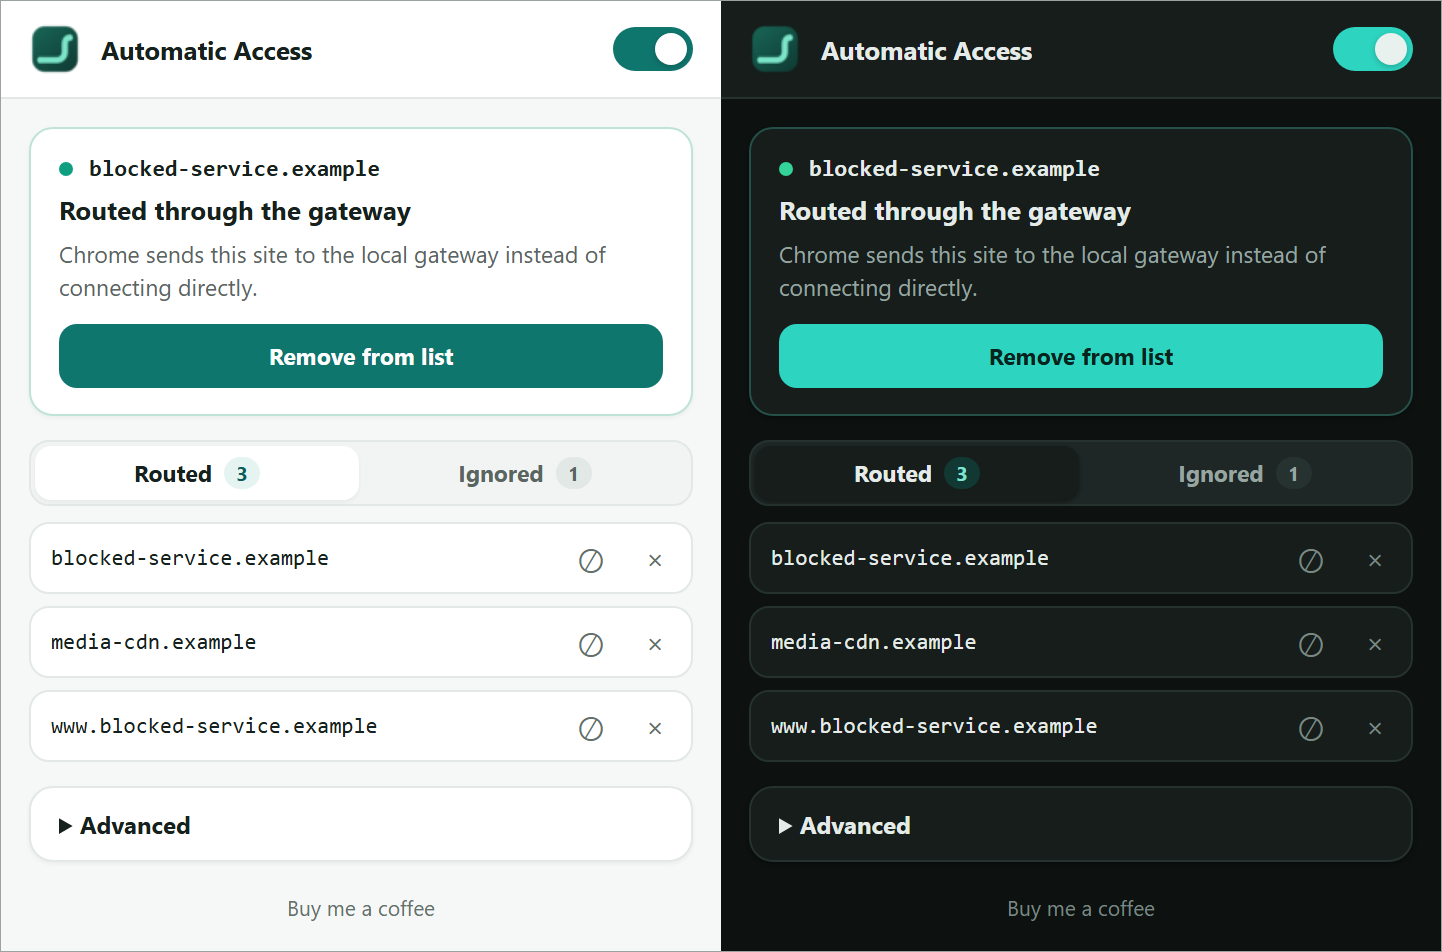
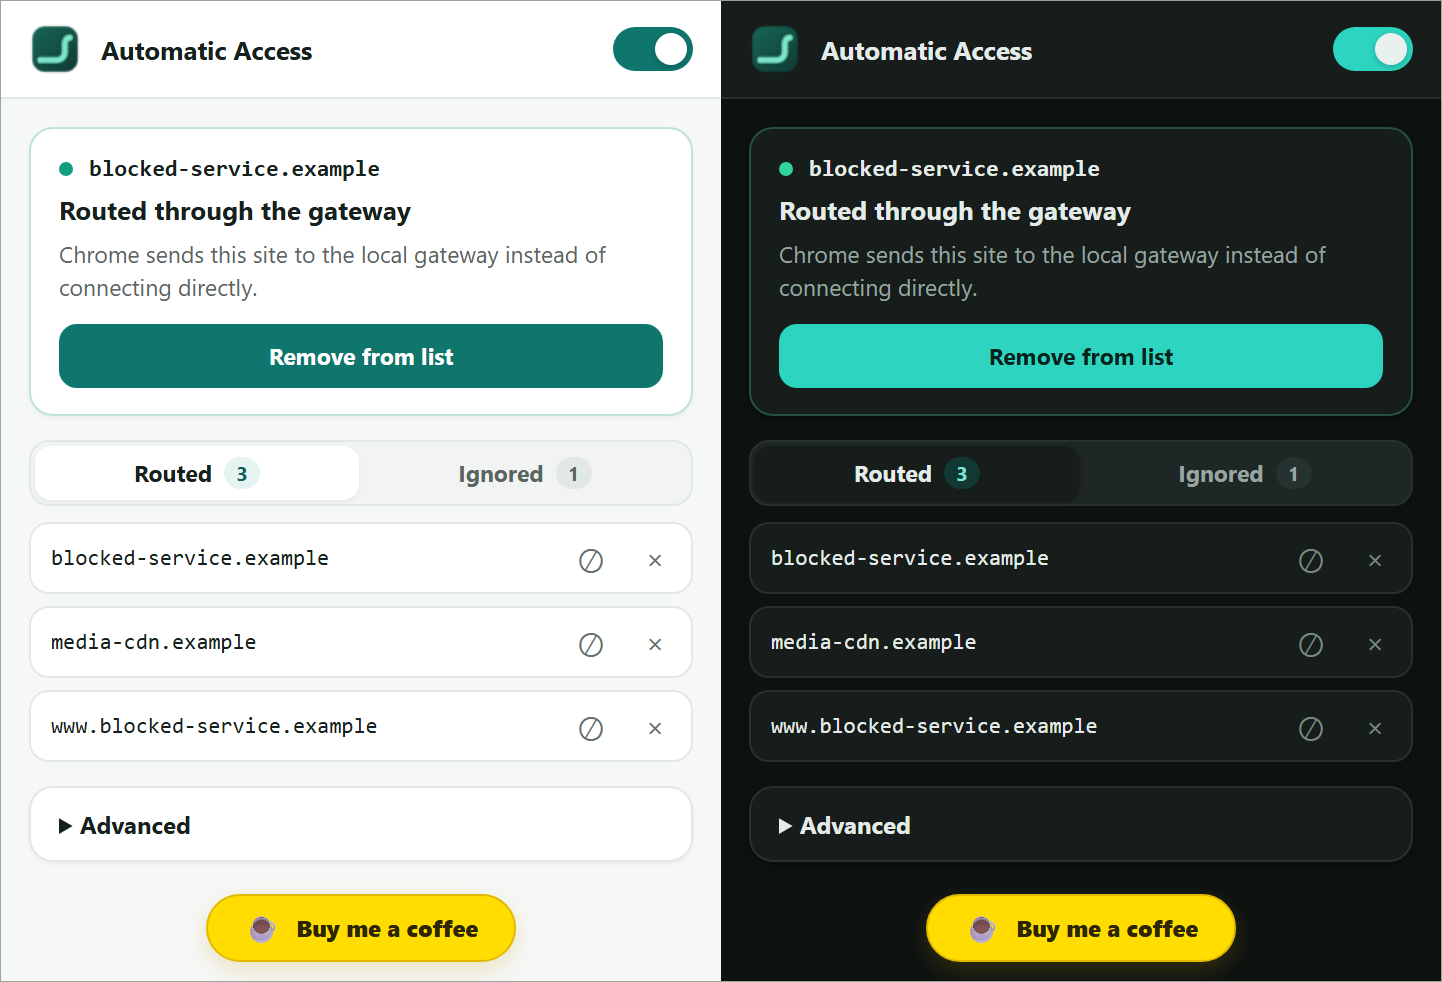
Keep the coffee button as prominent as it was
The rebuild reduced it to a grey text link in the footer, which lost it. It is
a real button again: the Buy Me a Coffee yellow, the cup, and a pill shape, with
brand colours fixed in both themes because a themed version of that button stops
reading as the one people recognise.

What does not come back is the card around it: the kicker, the sentence asking
for support and the looping shimmer were the promotional copy the rebuild set
out to remove. Refreshes the readme screenshot accordingly.

diff --git a/popup.css b/popup.css
@@ -566,25 +566,51 @@ main {
 }
 
 .foot {
-  padding: 0 14px 14px;
+  padding: 2px 14px 16px;
   text-align: center;
 }
 
+/* Buy Me a Coffee brand colours, deliberately fixed in both themes: a themed
+   version of this button stops reading as the one people recognise. The card
+   around it is gone, the button itself is not. */
 .support {
-  color: var(--text-3);
-  font-size: 10.5px;
+  display: inline-flex;
+  gap: 7px;
+  align-items: center;
+  justify-content: center;
+  min-height: 34px;
+  border: 1px solid #e3b900;
+  border-radius: 999px;
+  padding: 0 18px;
+  background: #ffdd00;
+  box-shadow: 0 4px 12px rgba(190, 151, 0, 0.22);
+  color: #2d2600;
+  font-size: 11.5px;
+  font-weight: 800;
   text-decoration: none;
+  transition: background-color 140ms ease, box-shadow 140ms ease, transform 140ms ease;
 }
 
 .support:hover {
-  color: var(--accent-text);
-  text-decoration: underline;
+  background: #ffe536;
+  box-shadow: 0 6px 16px rgba(190, 151, 0, 0.3);
+  transform: translateY(-1px);
+}
+
+.support:active {
+  transform: translateY(1px);
+}
+
+.cup {
+  font-size: 14px;
+  line-height: 1;
 }
 
 @media (prefers-reduced-motion: reduce) {
   .slider,
   .slider::before,
-  .btn {
+  .btn,
+  .support {
     transition: none;
   }
 }

diff --git a/popup.html b/popup.html
@@ -89,7 +89,10 @@
     </main>
 
     <footer class="foot">
-      <a class="support" href="https://buymeacoffee.com/ezerche" target="_blank" rel="noopener noreferrer" data-i18n="supportButton">Buy me a coffee</a>
+      <a class="support" href="https://buymeacoffee.com/ezerche" target="_blank" rel="noopener noreferrer">
+        <span class="cup" aria-hidden="true">☕</span>
+        <span data-i18n="supportButton">Buy me a coffee</span>
+      </a>
     </footer>
     <script src="popup-preview.js"></script>
     <script src="i18n.js"></script>
